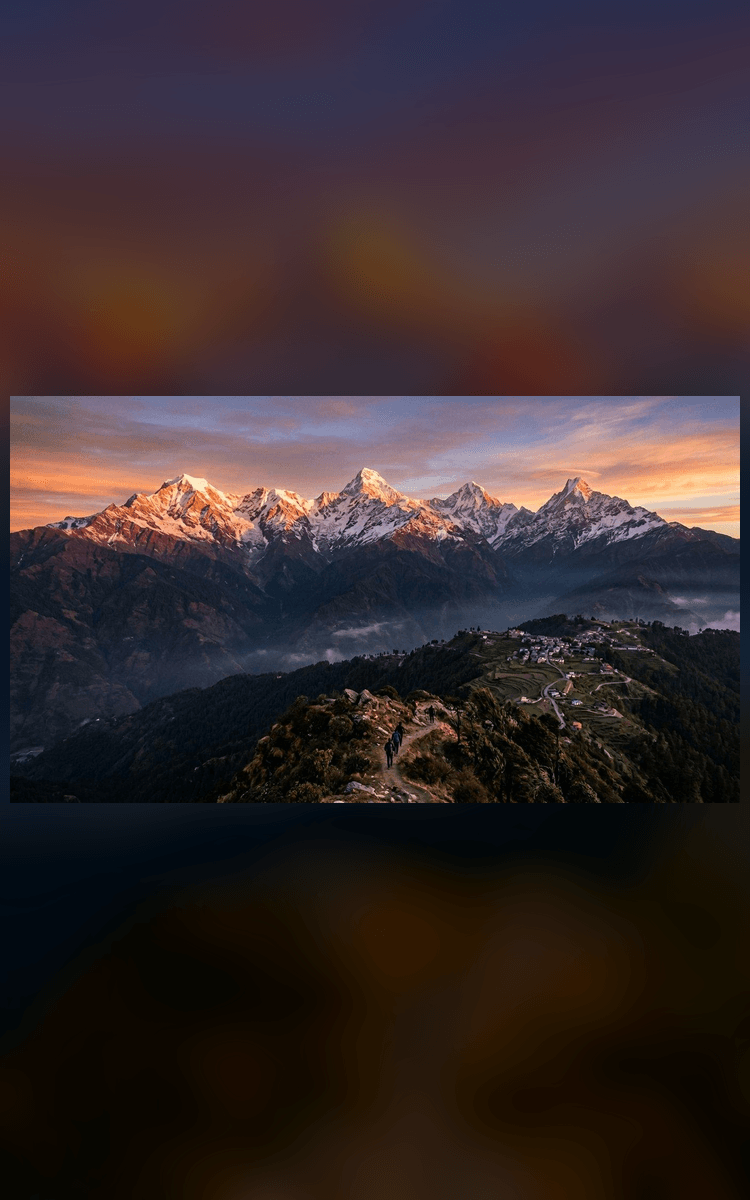
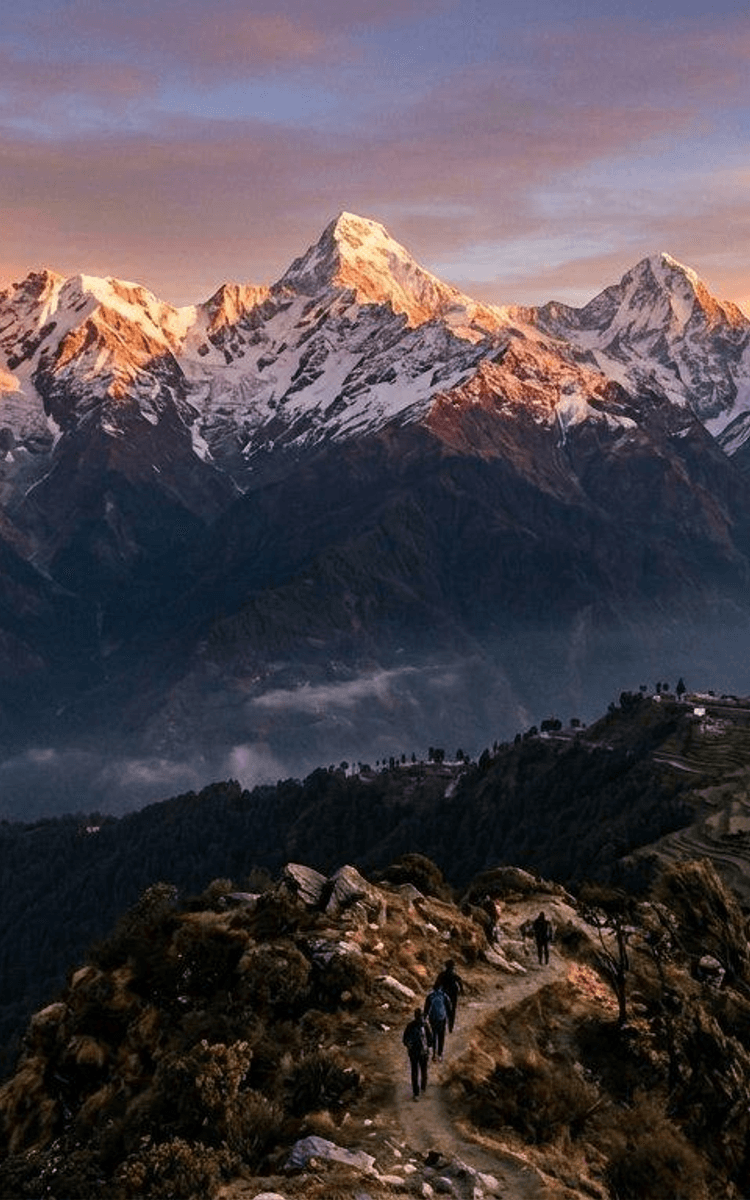
Update mobile images and website

diff --git a/scripts/create-mobile-images.js b/scripts/create-mobile-images.js
@@ -5,10 +5,13 @@ const sharp = require('sharp');
 const HERO_IMAGES = [
   "oo1.png",
   "g1.png",
+  "sp1.png",
   "ch.png",
   "nw.png",
+  "sp22.png",
   "opp.png",
   "jj1.png",
+  "sp3.png",
   "nn1.png",
   "s1.png",
   "kk2.png",
